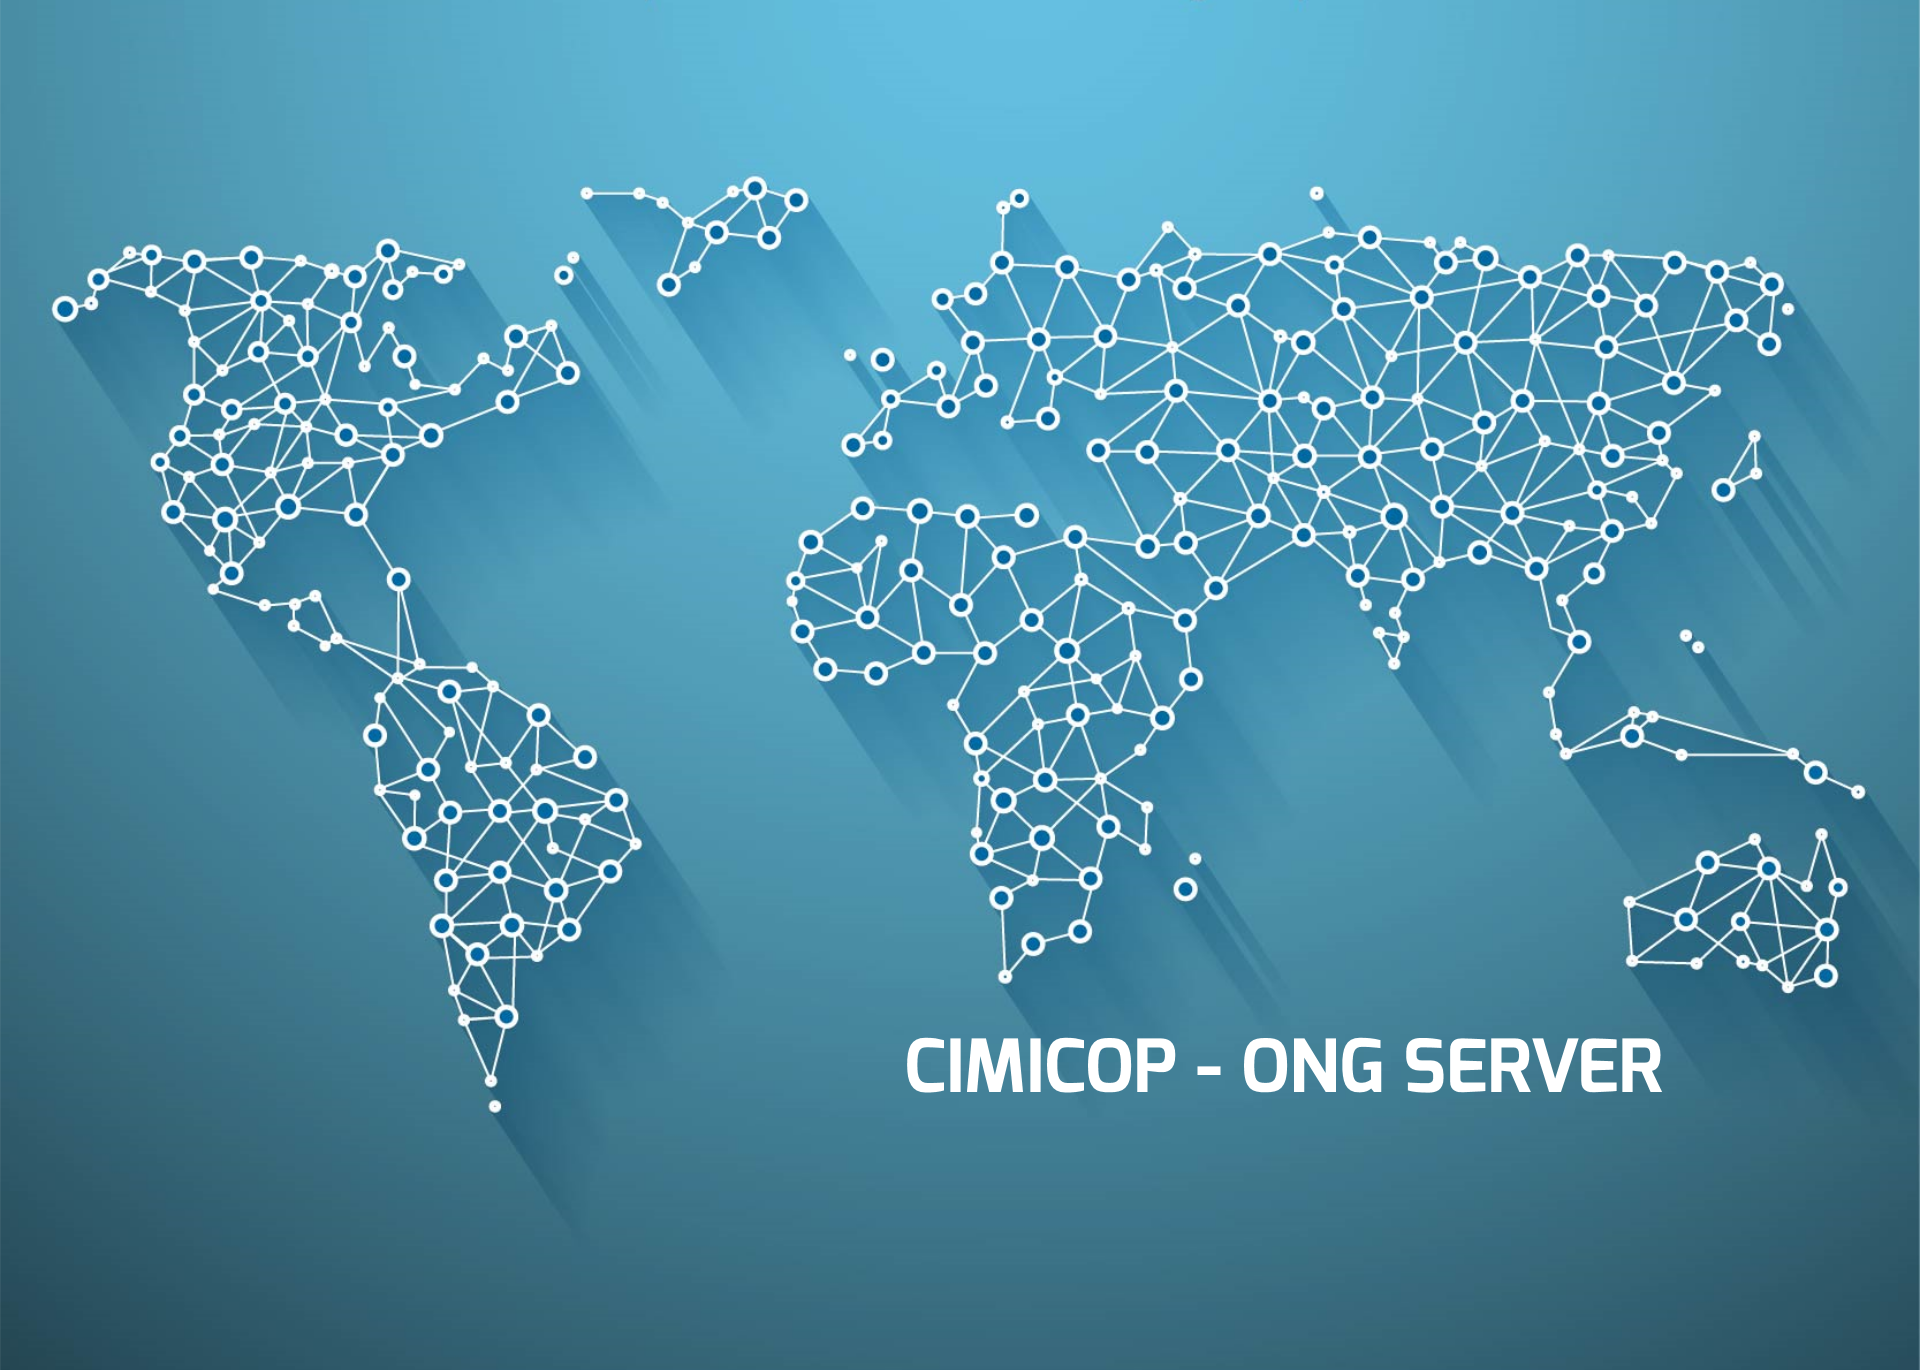
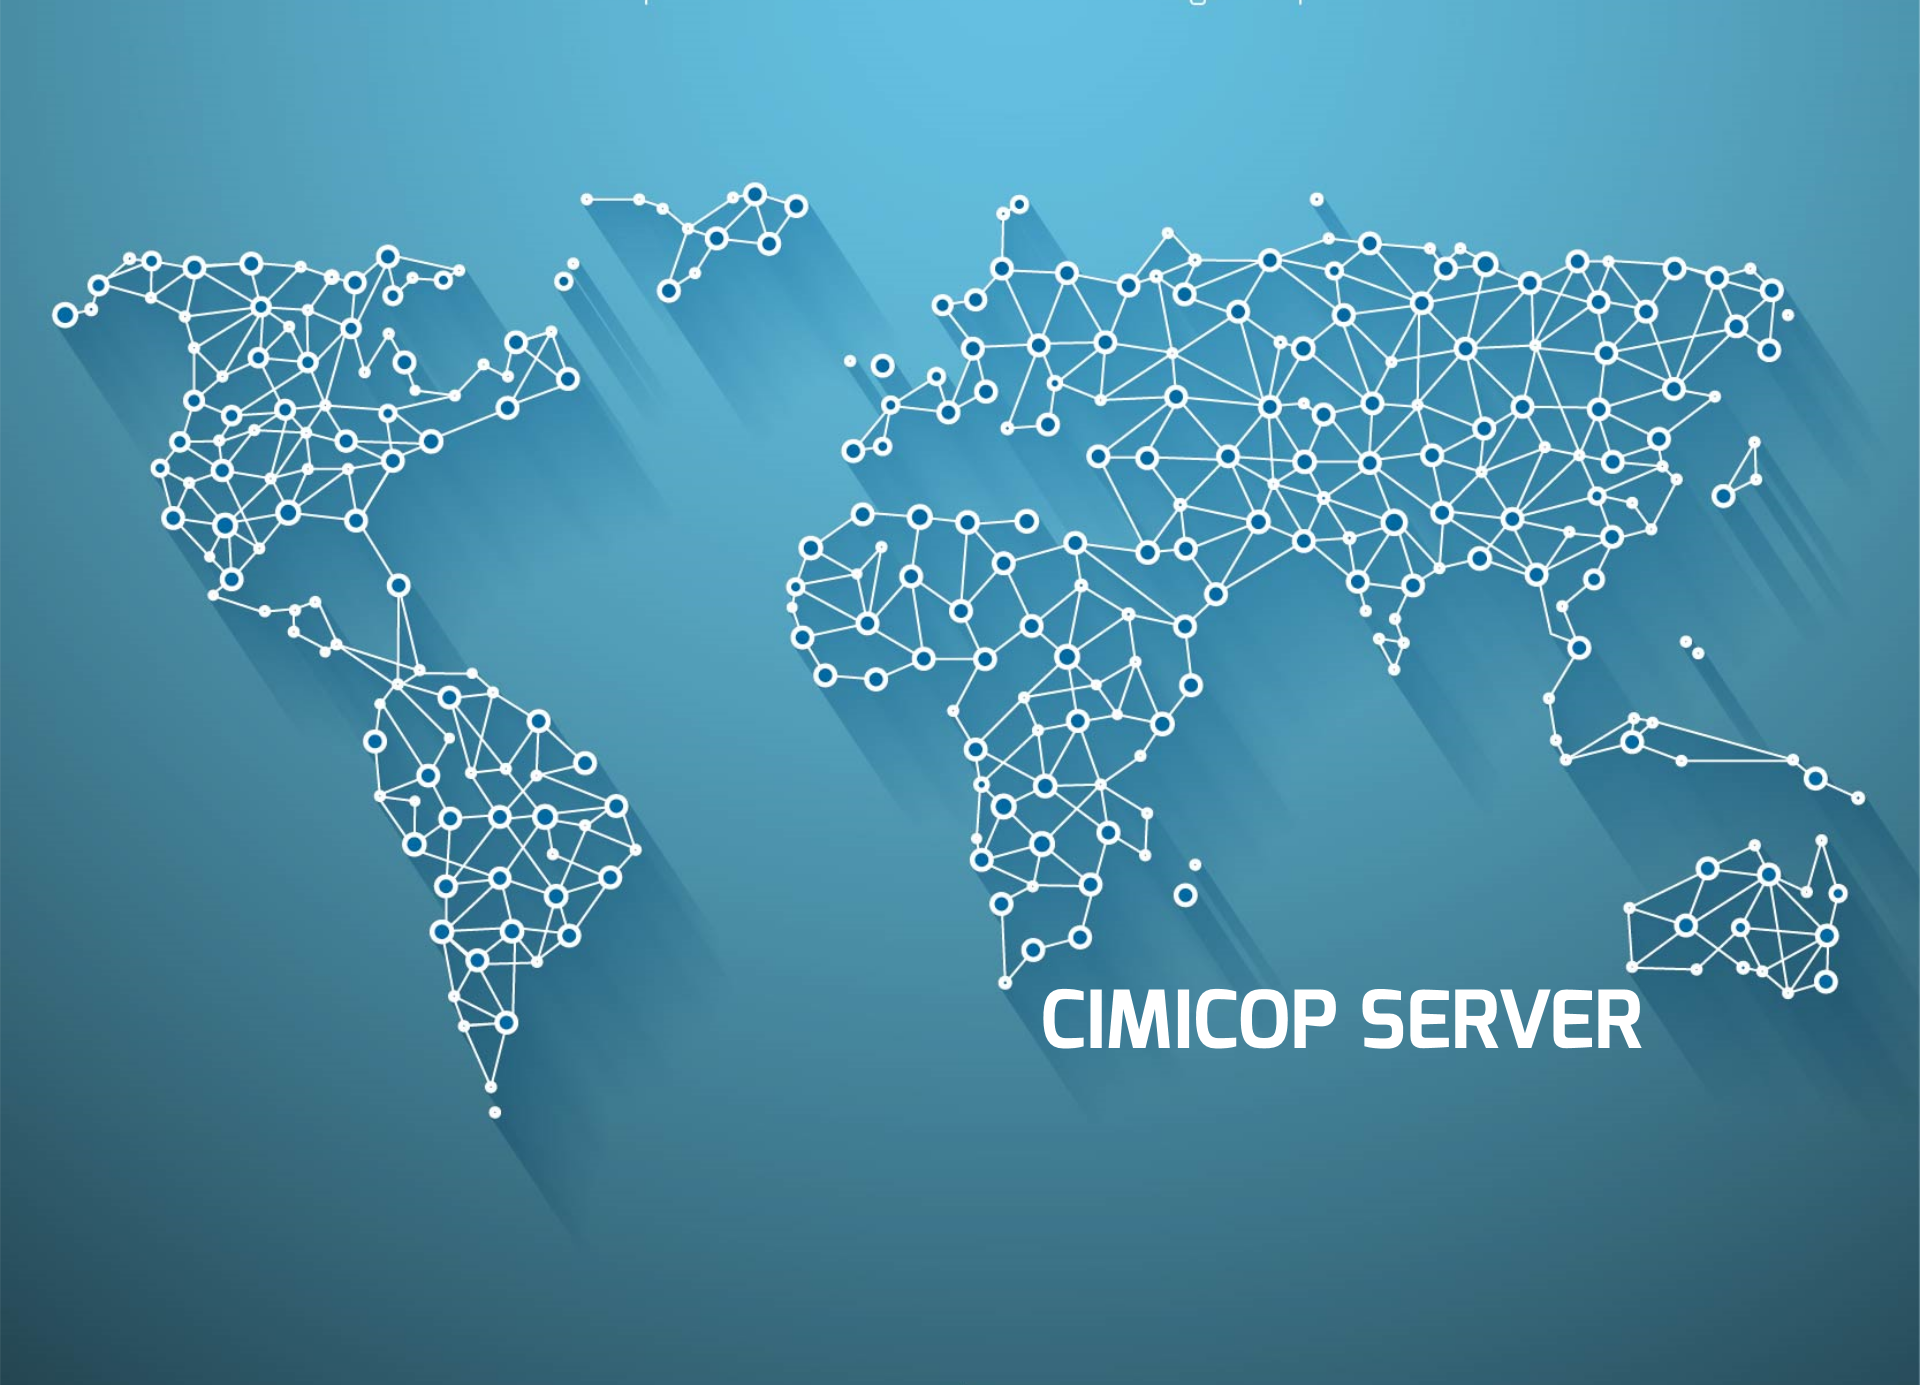
Cimicop Server Branding

diff --git a/ONG-SERVER/client/components/navbar/navbar.html b/ONG-SERVER/client/components/navbar/navbar.html
@@ -7,7 +7,7 @@
         <span class="icon-bar"></span>
         <span class="icon-bar"></span>
       </button>
-      <a href="/" class="navbar-brand">ONG SERVER</a>
+      <a href="/" class="navbar-brand">CIMICOP SERVER</a>
       <!--<a href="/" class="navbar-brand"><img height="30" width="30" src="assets/images/commanderarmy.png" ></a>-->
     </div>
     <div collapse="isCollapsed" class="navbar-collapse collapse" id="navbar-main">
